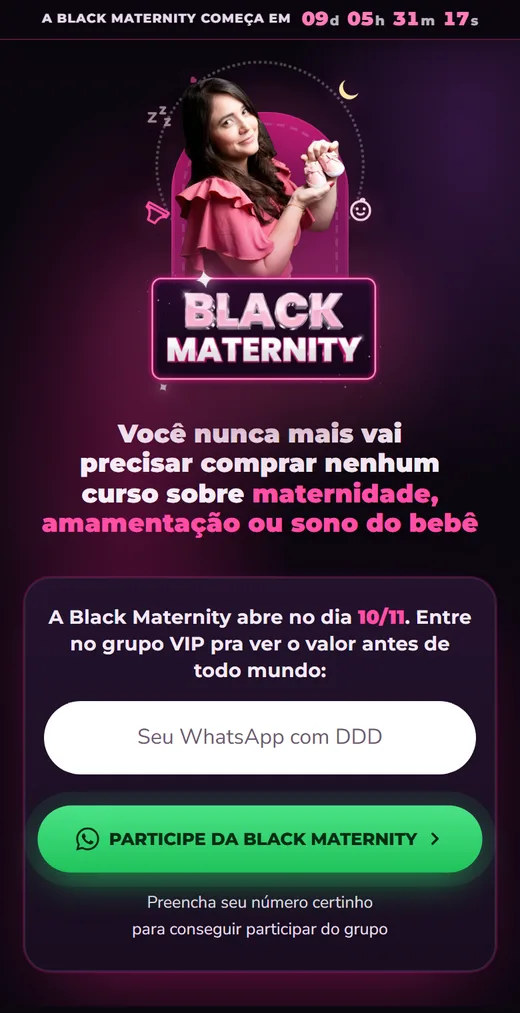
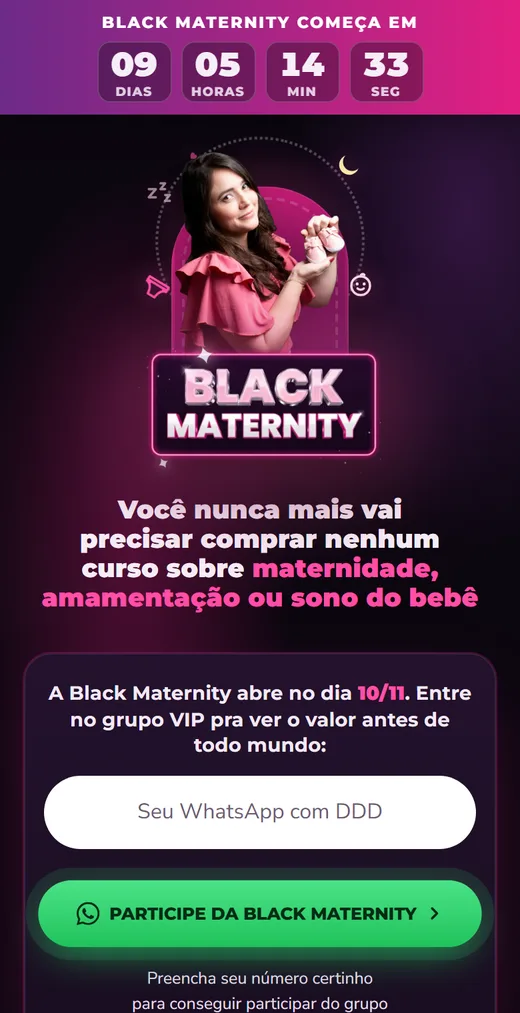
black: vip com a barra de contador das iscas

diff --git a/2026-10-26-black-2026/black-maternity/grupo-vip/index.html b/2026-10-26-black-2026/black-maternity/grupo-vip/index.html
@@ -305,24 +305,13 @@ footer{padding:26px 18px calc(26px + env(safe-area-inset-bottom));text-align:cen
 /* celular bem estreito (320px): nada passa da largura */
 .recebe,.oferta .caixa{grid-template-columns:minmax(0,1fr)}
 @media(max-width:350px){.oferta .caixa{padding:22px 14px}.oferta .parc{font-size:2.7rem}.cta{max-width:100%}.cta span{white-space:normal}.day *{min-width:0}.day [class*=grid]{grid-template-columns:minmax(0,1fr)}}
-</style><style>
-.barra.sutil{grid-auto-flow:column;justify-content:center;align-items:center;gap:10px;padding:7px 12px;padding-top:calc(7px + env(safe-area-inset-top));background:rgba(12,7,16,.78);-webkit-backdrop-filter:blur(10px);backdrop-filter:blur(10px);border-bottom:1px solid rgba(255,79,166,.28)}
-.barra.sutil .rotulo{font-size:.66rem;letter-spacing:.1em;color:#E9D8EE}
-.barra.sutil .cd{gap:6px}
-.barra.sutil .cd>span{display:flex;align-items:baseline;gap:1px;background:none;border:0;min-width:0;padding:0}
-.barra.sutil .cd b{font-size:.95rem;color:#FF7DBA}
-.barra.sutil .cd i{font-size:.62rem;margin:0;letter-spacing:0;text-transform:none;opacity:.75}
-@media(min-width:700px){.barra.sutil .rotulo{font-size:.72rem}.barra.sutil .cd b{font-size:1.05rem}.barra.sutil .cd>span{min-width:0}}
-.barra.sutil .rotulo{white-space:nowrap}
-@media(max-width:480px){.barra.sutil{gap:8px}.barra.sutil .rotulo{font-size:.6rem;letter-spacing:.05em}.barra.sutil .cd b{font-size:.9rem}}
-@media(max-width:350px){.barra.sutil .rotulo .antes{font-size:0}.barra.sutil .rotulo .antes::after{content:"Começa em";font-size:.6rem}}
 </style>
 <script src="../../assets/black.js" defer></script>
 </head>
 <body>
-<div class="barra sutil" data-contador>
-  <span class="rotulo"><span class="antes">A Black Maternity começa em</span><span class="hoje">A Black Maternity é hoje! Faltam</span></span>
-  <span class="cd"><span><b data-d>00</b><i>d</i></span><span><b data-h>00</b><i>h</i></span><span><b data-m>00</b><i>m</i></span><span><b data-s>00</b><i>s</i></span></span>
+<div class="barra" data-contador>
+  <span class="rotulo"><span class="antes">Black Maternity começa em</span><span class="hoje">A Black Maternity é hoje! Faltam</span></span>
+  <span class="cd"><span><b data-d>00</b><i>dias</i></span><span><b data-h>00</b><i>horas</i></span><span><b data-m>00</b><i>min</i></span><span><b data-s>00</b><i>seg</i></span></span>
 </div>
 
 <header class="hero">
